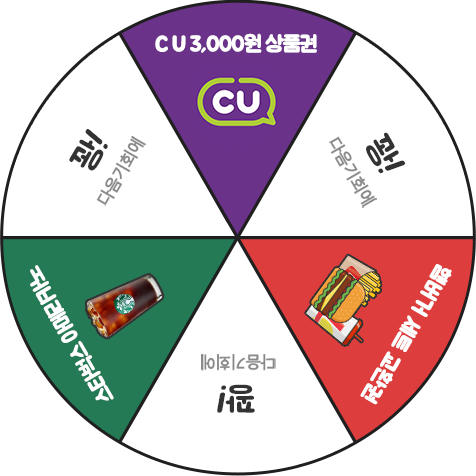
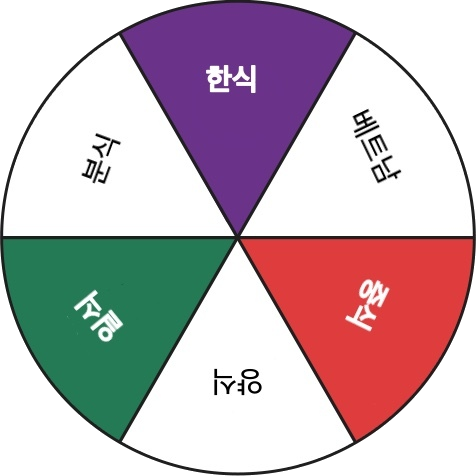
룰렛 + faq

diff --git a/LunchLive/src/main/webapp/resources/css/faq.css b/LunchLive/src/main/webapp/resources/css/faq.css
@@ -1,0 +1,34 @@
+@charset "UTF-8";
+
+
+.faq_answer {
+
+    
+    list-style: none;
+    display: none;
+    margin-bottom: 1%;
+
+}
+
+.faq_question {
+    list-style: none;
+    margin-bottom: 1%;
+}
+
+.faq_txt{
+	
+	 font-family: 'Noto Sans KR', sans-serif;
+		font-size:50%;
+	
+	
+}
+
+#withdrawal_Btn{
+	background-color:orange;
+	color:white;
+	border-radius: 2px;
+    border: solid 1px rgba(0,0,0,.15);
+	cursor: pointer;
+	
+	
+}

diff --git a/LunchLive/src/main/webapp/resources/css/rullet.css b/LunchLive/src/main/webapp/resources/css/rullet.css
@@ -2,6 +2,7 @@
 	position: relative;
     width:400px;
     height:400px;
+    margin: 5% auto;
 }
 .rouletter-bg{
 	position: absolute;
@@ -15,7 +16,7 @@
 }
 .rouletter-wacu{
     width:100%;height:100%;
-	background:#f5f5f2 url('./img/rullet.png') no-repeat;
+	background: #f5f5f2 url("../img/rullet.png") no-repeat;
     background-size:100%;
     transform-origin: center;
 }

diff --git a/LunchLive/src/main/webapp/resources/js/faq.js b/LunchLive/src/main/webapp/resources/js/faq.js
@@ -1,0 +1,19 @@
+$(document).ready(function () {
+
+
+
+   $("li.faq_question").click(function () {
+
+        $(this).next().toggle("fast");
+
+    });
+
+   /* $("li.faq_question").mouseover(function () {
+
+        $(this).next().toggle("fast");
+    });*/
+
+
+
+});
+
